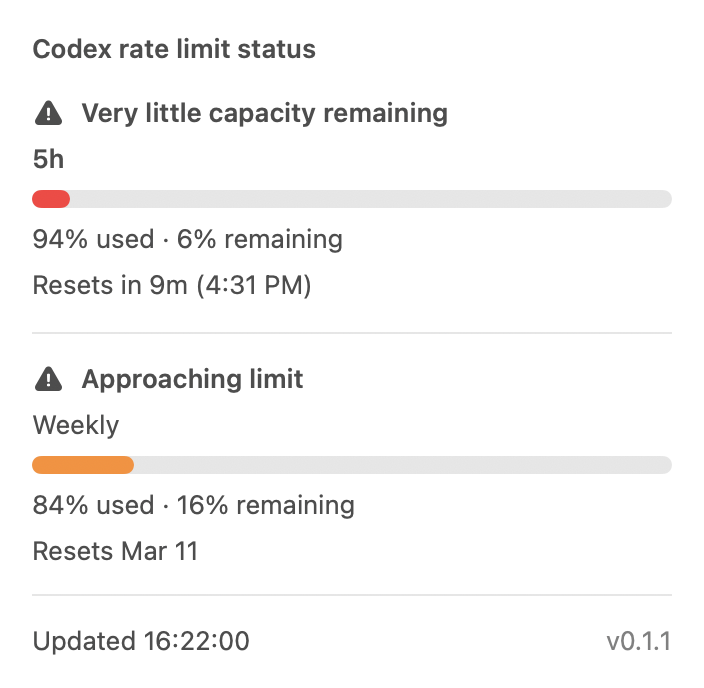
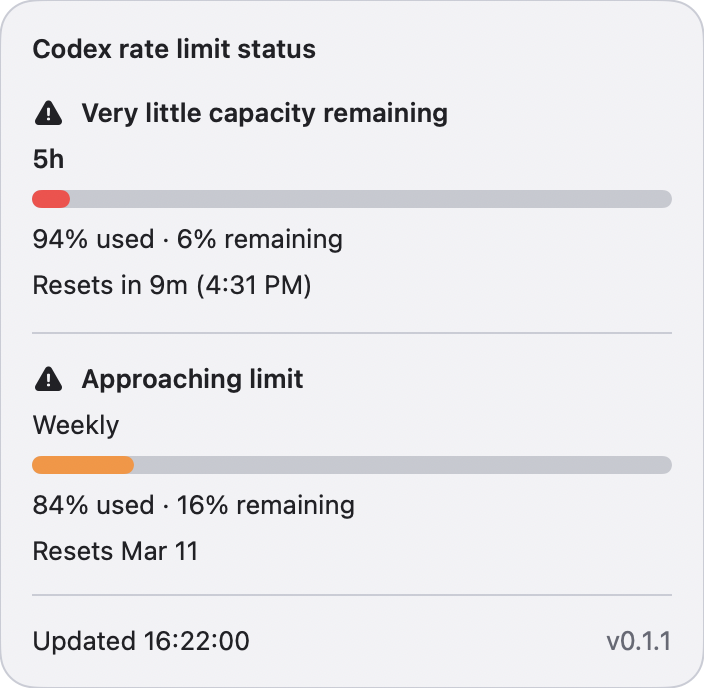
Improve light and dark screenshot assets

diff --git a/Sources/CodexToolbar/Views/StatusMenuContentView.swift b/Sources/CodexToolbar/Views/StatusMenuContentView.swift
@@ -1,31 +1,34 @@
+import AppKit
 import SwiftUI
 
 struct StatusMenuContentView: View {
     let store: RateLimitStore
+    let screenshotAppearance: ScreenshotAppearance?
 
     var body: some View {
         VStack(alignment: .leading, spacing: 14) {
             Text("Codex rate limit status")
                 .font(.body.weight(.semibold))
-                .foregroundStyle(.primary)
+                .foregroundStyle(palette.primaryText)
 
             if let staleMessage = store.staleMessage, !store.cards.isEmpty {
                 Label(staleMessage, systemImage: "exclamationmark.triangle.fill")
                     .font(.body.weight(.semibold))
-                    .foregroundStyle(.primary)
+                    .foregroundStyle(palette.primaryText)
             }
 
             if store.cards.isEmpty {
                 Text(store.statusMessage)
                     .font(.body)
-                    .foregroundStyle(.primary)
+                    .foregroundStyle(palette.primaryText)
             } else {
                 VStack(alignment: .leading, spacing: 0) {
                     ForEach(Array(store.cards.enumerated()), id: \.offset) { index, card in
-                        RateLimitCardView(card: card)
+                        RateLimitCardView(card: card, palette: palette)
 
                         if index < store.cards.count - 1 {
                             Divider()
+                                .overlay(palette.divider)
                                 .padding(.vertical, 14)
                         }
                     }
@@ -33,11 +36,12 @@ struct StatusMenuContentView: View {
             }
 
             Divider()
+                .overlay(palette.divider)
             HStack(spacing: 8) {
                 if let lastUpdated = store.lastUpdated, !store.cards.isEmpty {
                     Text(RateLimitFormatter.updatedFooterText(for: lastUpdated))
                         .font(.body)
-                        .foregroundStyle(.primary)
+                        .foregroundStyle(palette.primaryText)
 
                     if store.state == .connecting {
                         ProgressView()
@@ -50,11 +54,21 @@ struct StatusMenuContentView: View {
 
                 Text("v\(appVersion)")
                     .font(.body)
-                    .foregroundStyle(.secondary)
+                    .foregroundStyle(palette.secondaryText)
             }
         }
         .padding(16)
         .frame(width: 352, alignment: .leading)
+        .background {
+            if let surface = palette.surface {
+                RoundedRectangle(cornerRadius: 18, style: .continuous)
+                    .fill(surface)
+                    .overlay {
+                        RoundedRectangle(cornerRadius: 18, style: .continuous)
+                            .stroke(palette.border, lineWidth: 1)
+                    }
+            }
+        }
     }
 
     private var appVersion: String {
@@ -65,38 +79,43 @@ struct StatusMenuContentView: View {
 
         return "0.1.1"
     }
+
+    private var palette: StatusMenuPalette {
+        StatusMenuPalette.forScreenshotAppearance(screenshotAppearance)
+    }
 }
 
 private struct RateLimitCardView: View {
     let card: RateLimitCardViewData
+    let palette: StatusMenuPalette
 
     var body: some View {
         VStack(alignment: .leading, spacing: 7) {
             if let statusMessage = card.statusMessage {
                 Label(statusMessage, systemImage: statusIcon)
                     .font(.body.weight(.semibold))
-                    .foregroundStyle(.primary)
+                    .foregroundStyle(palette.primaryText)
             }
 
             Text(card.title)
                 .font(.body.weight(card.isPrimary ? .semibold : .regular))
-                .foregroundStyle(.primary)
+                .foregroundStyle(palette.primaryText)
 
-            RateLimitProgressBar(card: card)
+            RateLimitProgressBar(card: card, palette: palette)
                 .padding(.top, 1)
 
             Text(card.usageText)
                 .font(.body)
-                .foregroundStyle(.primary)
+                .foregroundStyle(palette.primaryText)
 
             Text(card.combinedResetText)
                 .font(.body)
-                .foregroundStyle(.primary)
+                .foregroundStyle(palette.primaryText)
 
             if card.progressState == .exhausted {
                 Text("Requests will resume when window resets.")
                     .font(.body)
-                    .foregroundStyle(.primary)
+                    .foregroundStyle(palette.primaryText)
             }
         }
         .padding(.vertical, card.isPrimary ? 2 : 0)
@@ -118,6 +137,7 @@ private struct RateLimitCardView: View {
 
 private struct RateLimitProgressBar: View {
     let card: RateLimitCardViewData
+    let palette: StatusMenuPalette
 
     var body: some View {
         GeometryReader { geometry in
@@ -125,7 +145,7 @@ private struct RateLimitProgressBar: View {
 
             ZStack(alignment: .leading) {
                 Capsule(style: .continuous)
-                    .fill(Color(nsColor: .quaternaryLabelColor))
+                    .fill(palette.progressTrack)
 
                 Capsule(style: .continuous)
                     .fill(fillColor)
@@ -139,11 +159,64 @@ private struct RateLimitProgressBar: View {
     private var fillColor: Color {
         switch card.progressState {
         case .normal:
-            return Color(nsColor: .labelColor)
+            return palette.normalFill
         case .warning:
-            return Color(nsColor: .systemOrange)
+            return palette.warningFill
         case .critical, .exhausted:
-            return Color(nsColor: .systemRed)
+            return palette.criticalFill
+        }
+    }
+}
+
+private struct StatusMenuPalette {
+    let surface: Color?
+    let border: Color
+    let primaryText: Color
+    let secondaryText: Color
+    let divider: Color
+    let progressTrack: Color
+    let normalFill: Color
+    let warningFill: Color
+    let criticalFill: Color
+
+    static func forScreenshotAppearance(_ appearance: ScreenshotAppearance?) -> StatusMenuPalette {
+        switch appearance {
+        case .light:
+            return StatusMenuPalette(
+                surface: Color(nsColor: NSColor(red: 0.95, green: 0.95, blue: 0.96, alpha: 1.0)),
+                border: Color(nsColor: NSColor(red: 0.79, green: 0.80, blue: 0.84, alpha: 1.0)),
+                primaryText: Color(nsColor: NSColor(red: 0.13, green: 0.13, blue: 0.15, alpha: 1.0)),
+                secondaryText: Color(nsColor: NSColor(red: 0.40, green: 0.41, blue: 0.46, alpha: 1.0)),
+                divider: Color(nsColor: NSColor(red: 0.79, green: 0.80, blue: 0.84, alpha: 1.0)),
+                progressTrack: Color(nsColor: NSColor(red: 0.78, green: 0.79, blue: 0.82, alpha: 1.0)),
+                normalFill: Color(nsColor: NSColor(red: 0.27, green: 0.27, blue: 0.29, alpha: 1.0)),
+                warningFill: Color(nsColor: .systemOrange),
+                criticalFill: Color(nsColor: .systemRed)
+            )
+        case .dark:
+            return StatusMenuPalette(
+                surface: Color(nsColor: NSColor(red: 0.10, green: 0.12, blue: 0.15, alpha: 1.0)),
+                border: Color(nsColor: NSColor(red: 0.26, green: 0.29, blue: 0.34, alpha: 1.0)),
+                primaryText: Color(nsColor: NSColor(red: 0.94, green: 0.95, blue: 0.97, alpha: 1.0)),
+                secondaryText: Color(nsColor: NSColor(red: 0.63, green: 0.66, blue: 0.72, alpha: 1.0)),
+                divider: Color(nsColor: NSColor(red: 0.26, green: 0.29, blue: 0.34, alpha: 1.0)),
+                progressTrack: Color(nsColor: NSColor(red: 0.26, green: 0.29, blue: 0.34, alpha: 1.0)),
+                normalFill: Color(nsColor: NSColor(red: 0.86, green: 0.89, blue: 0.93, alpha: 1.0)),
+                warningFill: Color(nsColor: .systemOrange),
+                criticalFill: Color(nsColor: .systemRed)
+            )
+        case nil:
+            return StatusMenuPalette(
+                surface: nil,
+                border: .clear,
+                primaryText: Color(nsColor: .labelColor),
+                secondaryText: Color(nsColor: .secondaryLabelColor),
+                divider: Color(nsColor: .separatorColor),
+                progressTrack: Color(nsColor: .quaternaryLabelColor),
+                normalFill: Color(nsColor: .labelColor),
+                warningFill: Color(nsColor: .systemOrange),
+                criticalFill: Color(nsColor: .systemRed)
+            )
         }
     }
 }

diff --git a/Sources/CodexToolbar/App/CodexToolbarApp.swift b/Sources/CodexToolbar/App/CodexToolbarApp.swift
@@ -49,7 +49,12 @@ final class AppDelegate: NSObject, NSApplicationDelegate {
     }
 
     private func configurePopover() {
-        let controller = NSHostingController(rootView: StatusMenuContentView(store: store))
+        let controller = NSHostingController(
+            rootView: StatusMenuContentView(
+                store: store,
+                screenshotAppearance: screenshotConfiguration?.appearance
+            )
+        )
         let popover = NSPopover()
         popover.behavior = .transient
         popover.contentSize = NSSize(width: 352, height: 300)

diff --git a/README.md b/README.md
@@ -44,9 +44,10 @@ That quits `CodexToolbar` if it is running and removes `~/Applications/CodexTool
 
 ## Screenshots
 
-| Normal | Warning | Critical |
-| --- | --- | --- |
-| ![Normal status popover](screenshots/readme-normal-light-popover.png) | ![Warning status popover](screenshots/readme-warning-light-popover.png) | ![Critical status popover](screenshots/readme-critical-light-popover.png) |
+| Theme | Normal | Warning | Critical |
+| --- | --- | --- | --- |
+| Light | ![Normal light mode status popover](screenshots/readme-normal-light-popover.png) | ![Warning light mode status popover](screenshots/readme-warning-light-popover.png) | ![Critical light mode status popover](screenshots/readme-critical-light-popover.png) |
+| Dark | ![Normal dark mode status popover](screenshots/readme-normal-dark-popover.png) | ![Warning dark mode status popover](screenshots/readme-warning-dark-popover.png) | ![Critical dark mode status popover](screenshots/readme-critical-dark-popover.png) |
 
 ## Notes
 
